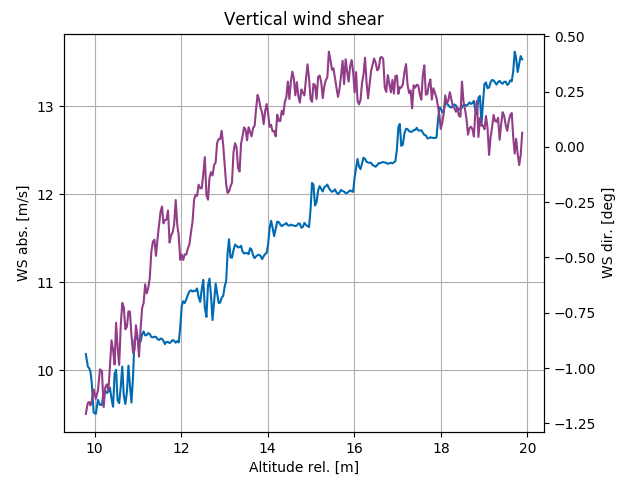
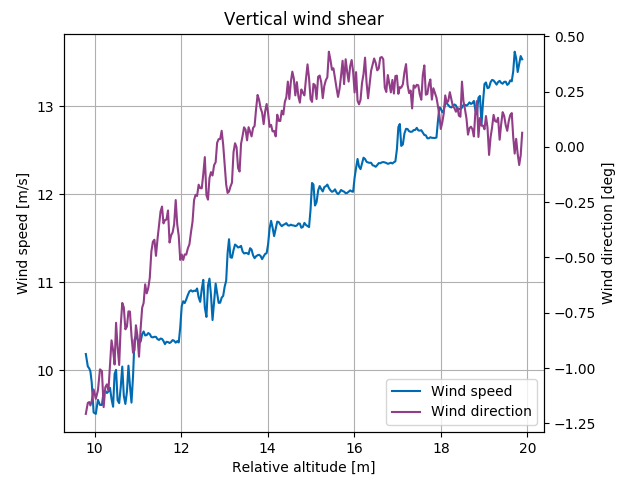
Update.

diff --git a/ReconstructDef.py b/ReconstructDef.py
@@ -14,7 +14,7 @@ class Reconstruct:
     def __init__ (self, filepath):
         self._filepath = filepath
         self._wind_labels_row = \
-            ['Altitude rel. [m]', 'WS abs. [m/s]', 'WS dir. [deg]']
+            ['Relative altitude [m]', 'Wind speed [m/s]', 'Wind direction [deg]']
         self.full_filename_raw = filepath + '/data_raw_comb.csv'
         self.full_filename_wind = filepath + '/data_wind.csv'
 
@@ -112,16 +112,22 @@ class Reconstruct:
         ax1 = fig.add_subplot(111)
         ax2 = ax1.twinx()
 
-        ax1.plot(data[1:,0], data[1:,1], color = "#006bb3")
+        lns1 = ax1.plot(data[1:,0], data[1:,1], color = "#006bb3",
+            label = "Wind speed")
 
         ax1.set(xlabel=data_labels[0,0], ylabel=data_labels[0,1],
             title="Vertical wind shear")
 
         ax1.grid()
 
-        ax2.plot(data[1:,0], data[1:,2], color = "#913D88")
+        lns2 = ax2.plot(data[1:,0], data[1:,2], color = "#913D88",
+            label = "Wind direction")
 
         ax2.set(ylabel=data_labels[0,2])
+
+        lns = lns1 + lns2
+        labs = [l.get_label() for l in lns]
+        ax1.legend(lns, labs, loc = "lower right")
 
         fig.savefig(self._filepath + '/vertical_wind_shear.png')
         plt.show()
